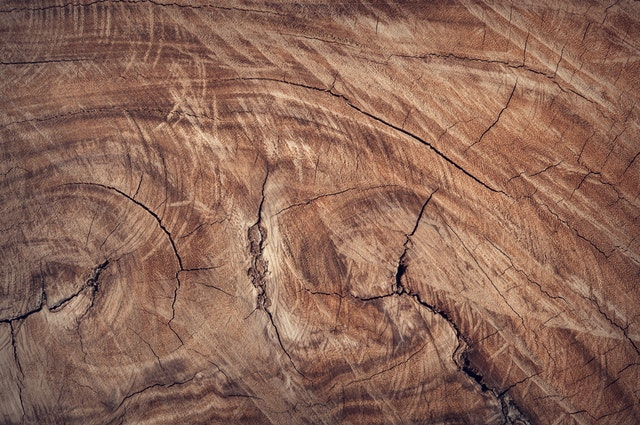
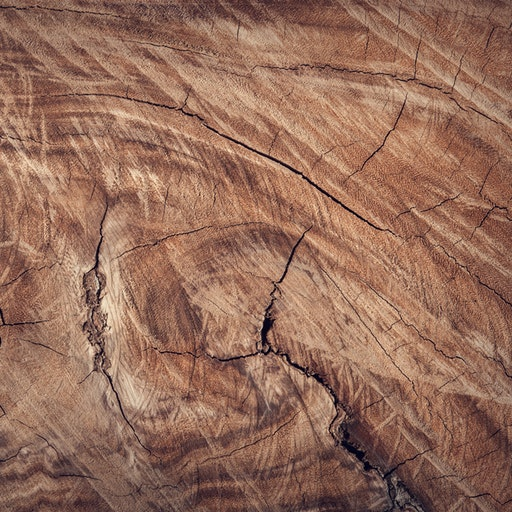
improved texture generation, now supports metaball colours and up to 4 input textures

diff --git a/index.html b/index.html
@@ -18,8 +18,10 @@
             var lines;
             var triangles;
             var skeletonhelper;
+            var texture;
             
             var woodTexture = new THREE.TextureLoader().load( 'wood.jpeg' );
+            var iceTexture = new THREE.TextureLoader().load( 'ice.jpeg' );
             
             var interval = 5;
             var smoothInterpolation = true;
@@ -61,7 +63,6 @@
 				vertexShader = document.getElementById('vertexShader').textContent;
 				fragmentShader = document.getElementById('fragmentShader').textContent;
                 
-                
                 //--------------------------
                     skeleton = generateSkeleton();
                 
@@ -74,8 +75,6 @@
                     lines.geometry.vertices = polygon;
                     lines.geometry.verticesNeedUpdate = true;
                     lines.position.z += 1;
-                
-                    var texture;
                     
                     var lowestX = polygon[0].x, lowestY = polygon[0].y, highestX = polygon[0].x, highestY = polygon[0].y;
                     for (var i = 0; i < polygon.length; i++) {
@@ -312,21 +311,31 @@
                     b2.thickness = 20;
                     bone.add(b2);
                     b2.position.x = 40;
+                    b2.color = new THREE.Vector3(1.0, 0.0, 0.0);
                 
                 var b3 = new THREE.Bone();
                     b3.thickness = 20;
                     b2.add(b3);
                     b3.position.x = 40;
+                    b3.color = new THREE.Vector3(0.0, 1.0, 0.0);
+                    b3.texture_weights = new THREE.Vector4(0.0, 1.0, 0.0, 0.0);
                 
                 var b4 = new THREE.Bone();
                     b4.thickness = 20;
                     b3.add(b4);
                     b4.position.x = 40;
+                    b4.color = new THREE.Vector3(0.0, 0.0, 1.0);
                 
                 var b5 = new THREE.Bone();
                     b5.thickness = 20;
                     b4.add(b5);
                     b5.position.x = 40;
+                
+                var b6 = new THREE.Bone();
+                    b6.thickness = 20;
+                    b5.add(b6);
+                    b6.position.x = 40;
+                    b6.texture_weights = new THREE.Vector4(0.0, 1.0, 0.0, 0.0);
                 
                 var skeleton = new THREE.Skeleton([bone, b2, b3, b4, b5]);
                 return skeleton;
@@ -347,6 +356,14 @@
                         var alpha = i/subballs;
                         var ball = boneLocation.clone().lerp(parentLocation, alpha);
                         ball.boneID = skeleton.bones.indexOf(parent);
+                        
+                        if (bone.color) {
+                            ball.color = bone.color;
+                        }
+                        if (bone.texture_weights) {
+                            ball.texture_weights = bone.texture_weights;
+                        }
+                        
                         metaballs.push(ball);
                     }
                     
@@ -736,6 +753,7 @@
             }
             
             function generateTexture(metaballs, bounds) {
+                // camera setup
                 var texRenderTarget = new THREE.WebGLRenderTarget(256, 256);
                 var texScene = new THREE.Scene();
                 var texCamera = new THREE.OrthographicCamera( 256 / - 2, 256 / 2, 256 / 2, 256 / - 2, 1, 1000 );
@@ -743,15 +761,37 @@
 				texCamera.up = new THREE.Vector3(0, 1, 0);
 				texCamera.lookAt(lookAt);
                 
+                // shader uniforms and metaball data
+                var colors = [];
+                var texture_weights = [];
+                for (var i = 0; i < metaballs.length; i++) {
+                    if (metaballs[i].color) {
+                        colors.push(metaballs[i].color);
+                    } else {
+                        colors.push(new THREE.Vector3(1.0,1.0,1.0));
+                    }
+                    
+                    if (metaballs[i].texture_weights) {
+                        texture_weights.push(metaballs[i].texture_weights);
+                    } else {
+                        texture_weights.push(new THREE.Vector4(1.0,0.0,0.0,0.0));
+                    }
+                }
+                
+                
+                // shader setup
                 var geometry = new THREE.PlaneBufferGeometry( 256, 256 );
                 var material = new THREE.ShaderMaterial({
 					uniforms: {
                         metaballs: new THREE.Uniform(metaballs),
+                        metaball_colors: new THREE.Uniform(colors),
+                        metaball_texture_weights: new THREE.Uniform(texture_weights),
                         bounds: new THREE.Uniform(new THREE.Vector4(bounds[0], bounds[1], bounds[2], bounds[3])),
-                        woodTexture: new THREE.Uniform(woodTexture)
+                        tex_0: new THREE.Uniform(woodTexture),
+                        tex_1: new THREE.Uniform(iceTexture)
                     },
 					vertexShader: vertexShader,
-					fragmentShader: document.getElementById('textureFragmentShader').textContent.replace("METABALL_COUNT", metaballs.length).replace("METABALL_COUNT", metaballs.length),
+					fragmentShader: document.getElementById('textureFragmentShader').textContent.replace("METABALL_COUNT", metaballs.length),
                     side: THREE.DoubleSide
 				});
                 var plane = new THREE.Mesh( geometry, material );
@@ -766,8 +806,10 @@
 
 		<script id="vertexShader" type="x-shader/x-vertex">
 			varying vec3 vertexPosition;
+            varying vec2 frag_uv;
 			void main() {
 				vertexPosition = position;
+                frag_uv = uv;
 				gl_Position = projectionMatrix * modelViewMatrix * vec4(position,1.0);
 			}
 		</script>
@@ -798,11 +840,21 @@
 			}
 		</script>
 		<script id="textureFragmentShader" type="x-shader/x-fragment">
-            uniform vec3 metaballs[METABALL_COUNT];
-            uniform vec4 bounds;
-            varying vec3 vertexPosition;
+            #define METABALL_C METABALL_COUNT
+        
+            uniform vec3 metaballs[METABALL_C];
+            uniform vec3 metaball_colors[METABALL_C];
+            uniform vec4 metaball_texture_weights[METABALL_C];
+
+            uniform sampler2D tex_0;
+            uniform sampler2D tex_1;
+            uniform sampler2D tex_2;
+            uniform sampler2D tex_3;
             
-            uniform sampler2D woodTexture;
+            uniform vec4 bounds;
+            
+            varying vec3 vertexPosition;
+            varying vec2 frag_uv;
             
             void main() {
             
@@ -819,18 +871,38 @@
                 alteredPosition.y += bounds.y;
                 
                 float dist = 0.0;
-                for (int i = 0; i < METABALL_COUNT; i++) {
-                    dist += pow(metaballs[i].z, 2.0) / dot(metaballs[i].xy-alteredPosition.xy, metaballs[i].xy-alteredPosition.xy);
+                vec3 color;
+                vec4 texture_weights;
+                
+                for (int i = 0; i < METABALL_C; i++) {
+                    float val = pow(metaballs[i].z, 2.0) / dot(metaballs[i].xy-alteredPosition.xy, metaballs[i].xy-alteredPosition.xy);
+                
+                    dist += val;
+                    color += val*metaball_colors[i];
+                    texture_weights += val*metaball_texture_weights[i];
                 }
                 
-                if (dist < 1.0) {
-                    gl_FragColor = vec4(dist, 0.0, 0.0, 1.0);
-                } else {
-                    gl_FragColor = vec4(0.0, 0.0, dist-1.0, 1.0);
+                color /= dist;
+                texture_weights /= dist;
+                
+                // texture UV's, scaled to avoid texture stretching
+                float ratio =  bounds.z/bounds.w;
+                vec2 uv = frag_uv; 
+                if (ratio < 1.0) {
+                    uv.x *= ratio;
+                }
+                if (ratio > 1.0) {
+                    uv.y /= ratio;
                 }
                 
-                gl_FragColor = texture2D(woodTexture, vertexPosition.xy/vec2(256.0,256.0)+vec2(0.5,0.5)) * dist;
+                vec4 texture_colors;
+                texture_colors += texture2D(tex_0, uv)*texture_weights.r;
+                texture_colors += texture2D(tex_1, uv)*texture_weights.g;
+                texture_colors += texture2D(tex_2, uv)*texture_weights.b;
+                texture_colors += texture2D(tex_3, uv)*texture_weights.a;
                 
+                gl_FragColor = texture_colors * vec4(color,1.0); //  * log(dist*2.0)/2.0
+                //gl_FragColor = vec4(uv, 0.0, 1.0);
                 //gl_FragColor.r = alteredPosition.x / bounds.z;
                 //gl_FragColor.g = alteredPosition.y / bounds.w;
                 //gl_FragColor.b = 0.0;
